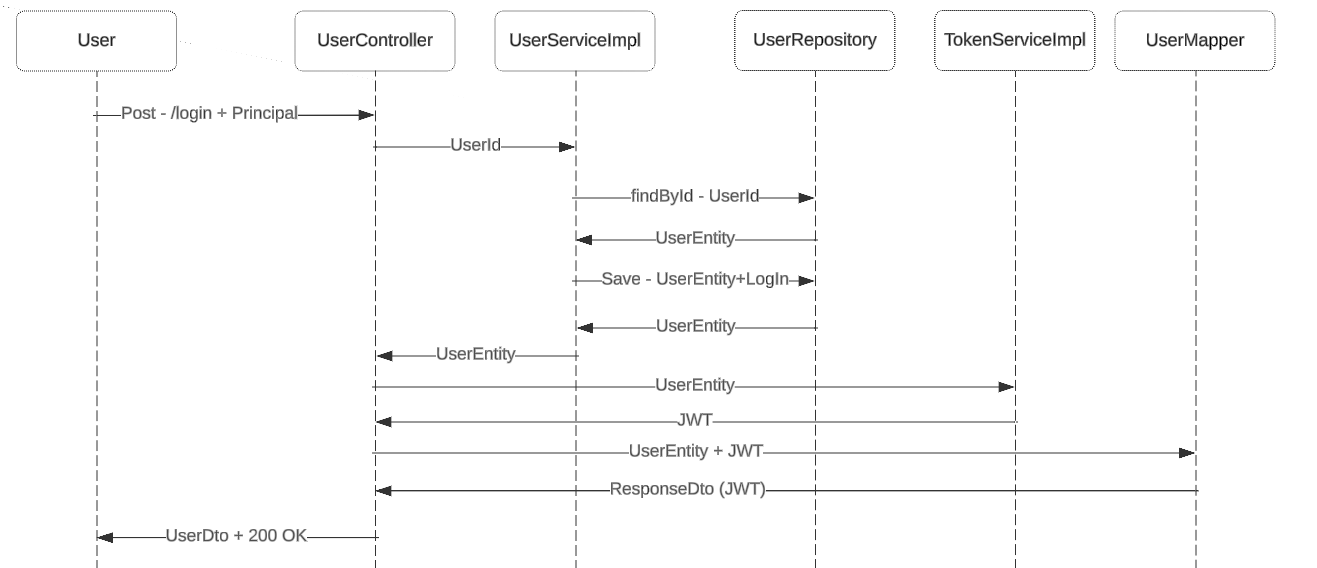
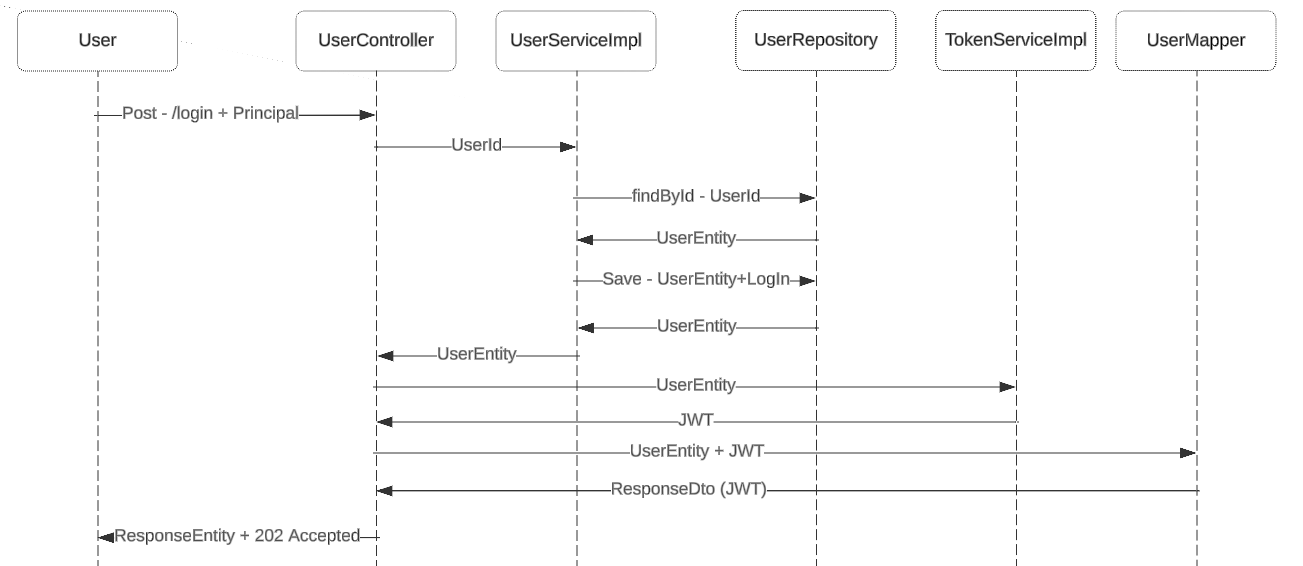
ConstrollerTest

diff --git a/src/main/java/com/bci/gestionusuarios/controller/UserController.java b/src/main/java/com/bci/gestionusuarios/controller/UserController.java
@@ -10,6 +10,8 @@ import com.bci.gestionusuarios.service.UserService;
 import com.bci.gestionusuarios.service.impl.TokenServiceImpl;
 import com.bci.gestionusuarios.util.Validation;
 import lombok.AllArgsConstructor;
+import org.springframework.http.HttpStatus;
+import org.springframework.http.ResponseEntity;
 import org.springframework.web.bind.annotation.*;
 
 import java.security.Principal;
@@ -24,7 +26,7 @@ public class UserController {
     private TokenServiceImpl tokenService;
 
     @PostMapping("/sign-up")
-    public ResponseDto signUp(@RequestBody UserDto user) {
+    public ResponseEntity<ResponseDto> signUp(@RequestBody UserDto user) {
         if(!Validation.isEmailValid(user.getEmail())){
             throw new InvalidEmailFormatException("User", "email", user.getEmail());
         }
@@ -35,13 +37,18 @@ public class UserController {
 
         UserEntity newUser = userService.createUser(UserMapper.toEntity(user));
 
-        return UserMapper.toResponse(newUser, tokenService.toToken(newUser));
+        return ResponseEntity
+                .status(HttpStatus.CREATED)
+                .body(UserMapper.toResponse(newUser, tokenService.toToken(newUser)));
     }
 
     @GetMapping("/login")
-    public UserDto login(Principal principal) {
+    public ResponseEntity<UserDto> login(Principal principal) {
         UserEntity user = userService.getUserById(UUID.fromString(principal.getName()));
-        return UserMapper.toDto(user, tokenService.toToken(user));
+
+        return ResponseEntity
+                .status(HttpStatus.ACCEPTED)
+                .body(UserMapper.toDto(user, tokenService.toToken(user)));
     }
 
 }
